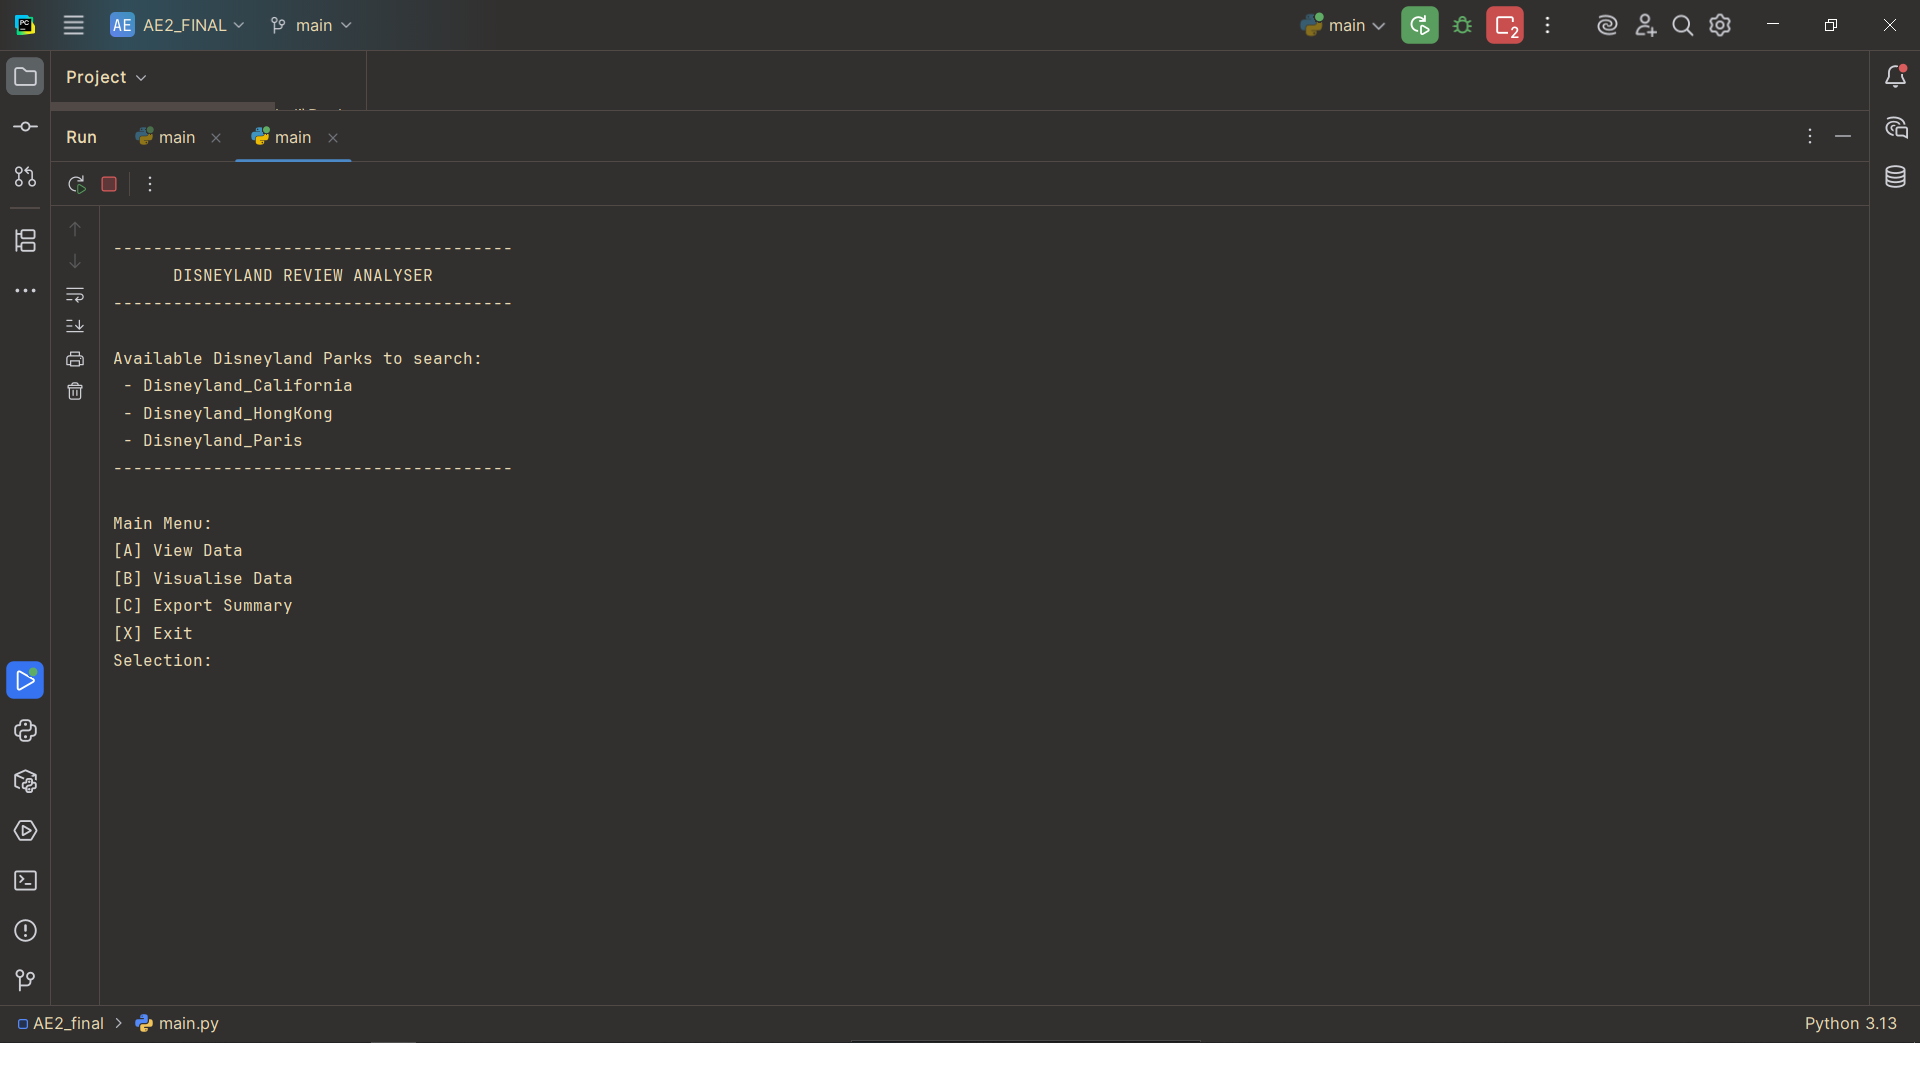
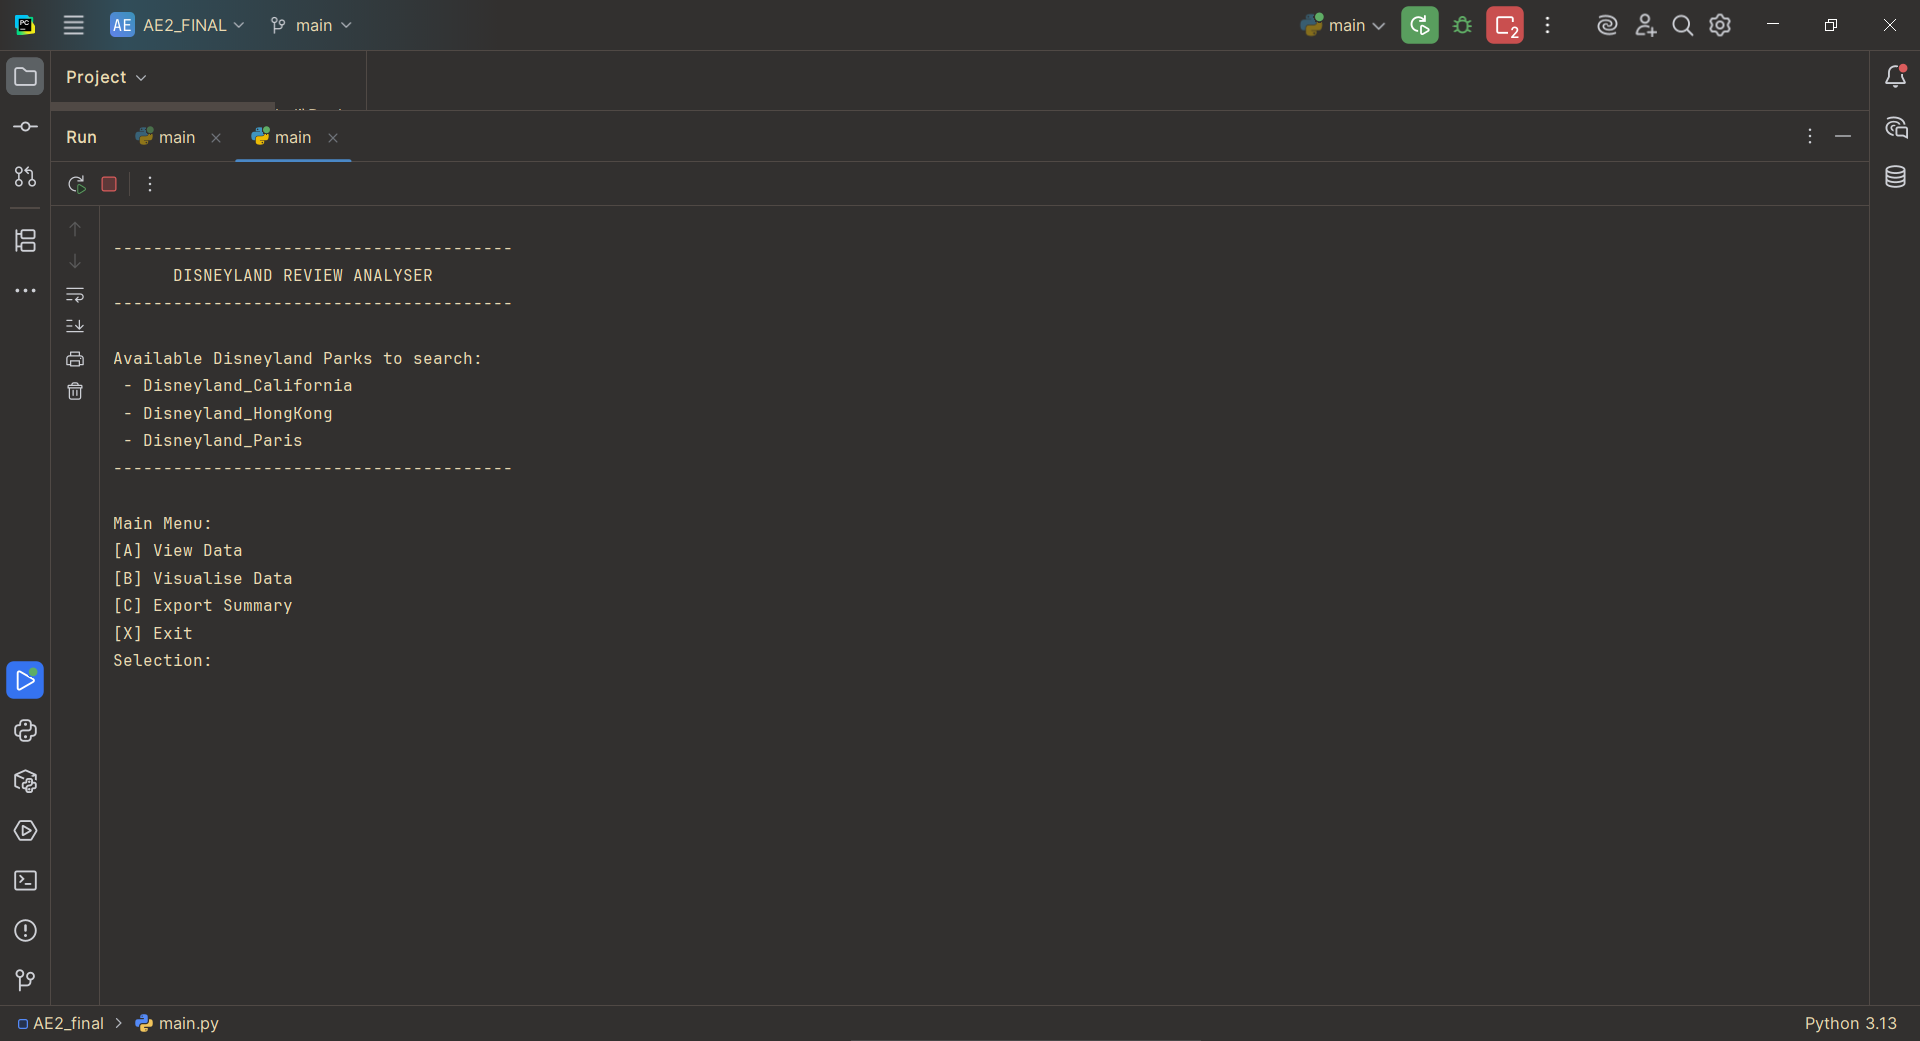
Add screenshots

diff --git a/README.md b/README.md
@@ -3,6 +3,19 @@
 A terminal-based Python application for analysing Disneyland park reviews from a CSV dataset.
 Built as the AE2 coursework submission for **QHO444 – Problem Solving Through Programming** (completed 6 February 2026).
 
+## Screenshots
+ 
+**Main Menu**
+![Main menu](screenshots/menu.png)
+ 
+**Average Score Query**
+![Average score](screenshots/average.png)
+ 
+**Pie Chart Visualisation**
+![Pie chart](screenshots/pie_chart.png)
+ 
+
+
 ## Files
 
 | File | Description |